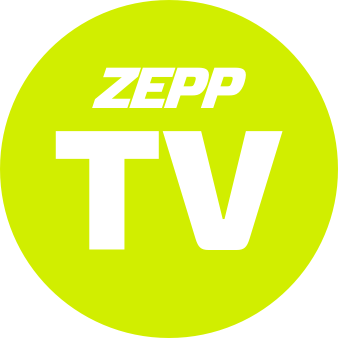
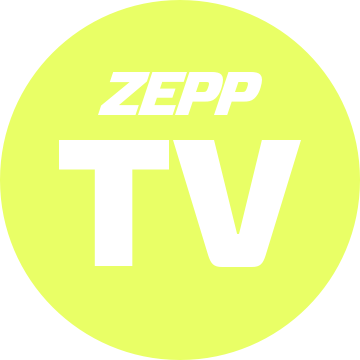
Replace light images.

diff --git a/AVFoundationEditor/Views/BSIntroduceInView.m b/AVFoundationEditor/Views/BSIntroduceInView.m
@@ -177,8 +177,8 @@ static const CGFloat FRAME_RATE = 30;
 	animation.beginTime = beginTime;
 	
 	NSMutableArray *images = [NSMutableArray array];
-	for (uint i = 15; i <= 34; i++) {
-		NSString *name = [NSString stringWithFormat:@"Light00%i.png", i];
+	for (uint i = 10; i <= 30; i++) {
+		NSString *name = [NSString stringWithFormat:@"22_000%i.png", i];
 		UIImage *image = [UIImage imageNamed:name];
 		[images addObject:(id)image.CGImage];
 	}
